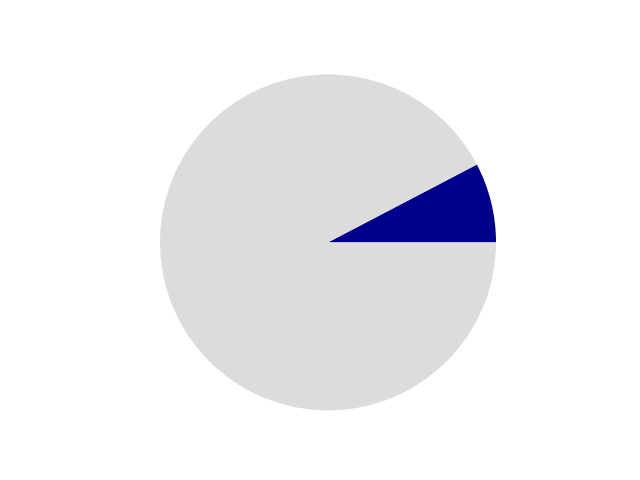
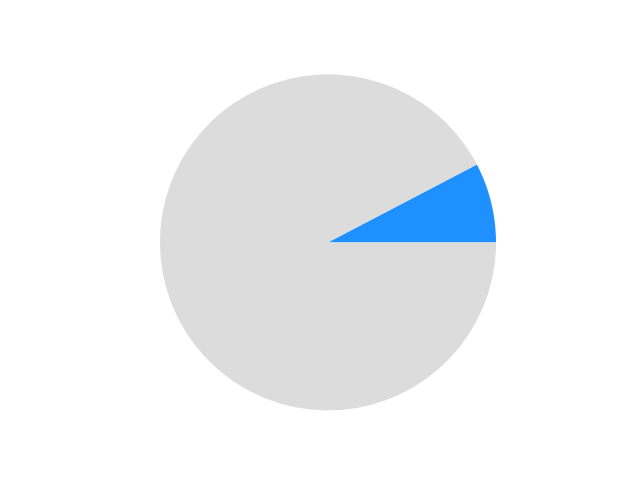
Changing colour to the piecharts.

Changed region(s): [[0.5312, 0.3438, 0.7812, 0.5312]]

diff --git a/Scripts/Processed/27_Plot_Diff_OBS_NWP_Climate_Piechart.py b/Scripts/Processed/27_Plot_Diff_OBS_NWP_Climate_Piechart.py
@@ -25,9 +25,9 @@ Domain_Coord_list = [ [90,-170,15,-50], [15, -100, -60, -30], [90, -30, 30, 60],
 Domain_Name_list = ["North_America", "South_America", "Europe_Mediterranean", "Africa", "Asia", "Oceania"]
 SystemNWP_list = ["Reanalysis/ERA5_EDA", "Reanalysis/ERA5", "Reforecasts/ECMWF_46r1", "Reanalysis/ERA5_ecPoint"]
 Git_Repo = "/ec/vol/ecpoint_dev/mofp/papers_2_write/Verif_ClimateNWP_4Points"
-DirIN_obs = "Data/Compute/12_Climate_OBS/08_AlignOBS_Combine_Years_RawSTVL/MinDays_Perc_75.0/24h_2000_2019"
+DirIN_obs = "Data/Compute/12_Climate_OBS/10_AlignOBS_CleanSTVL/Coeff_Grid2Point_500/MinDays_Perc_75.0/24h_2000_2019"
 DirIN_nwp = "Data/Compute/16_Climate_G/24h_2000_2019"
-DirOUT = "Data/Plot/27_Diff_OBS_NWP_Climate_Piechart/08_AlignOBS_Combine_Years_RawSTVL/MinDays_Perc_75.0/24h_2000_2019"
+DirOUT = "Data/Plot/27_Diff_OBS_NWP_Climate_Piechart/10_AlignOBS_CleanSTVL/Coeff_Grid2Point_500/MinDays_Perc_75.0/24h_2000_2019"
 ##############################################################################################################
 
 
@@ -71,7 +71,7 @@ for SystemNWP in SystemNWP_list:
                 nwp_below_obs = 100 - nwp_above_obs
                 print(" - % of NWP above OBS climate in " + Domain_Name + ": " + str(np.round(nwp_above_obs, decimals = 2)))
                 sizes = [nwp_above_obs, nwp_below_obs]
-                colors = ["#00008B", "gainsboro"]
+                colors = ["dodgerblue", "gainsboro"]
                 ax.pie(sizes, colors=colors, startangle=0)
                 plt.axis("equal")
 

diff --git a/Scripts/Processed/20_Plot_ECDF.py b/Scripts/Processed/20_Plot_ECDF.py
@@ -28,7 +28,7 @@ MinDays_Perc = 0.75
 SystemNWP_list = ["Reanalysis/ERA5_EDA", "Reanalysis/ERA5", "Reforecasts/ECMWF_46r1", "Reanalysis/ERA5_ecPoint"]
 SystemNWP_Colour_list = ["#CBE676", "#CDA590", "#6EB0C6", "#E25862"]
 Git_Repo = "/ec/vol/ecpoint_dev/mofp/papers_2_write/Verif_ClimateNWP_4Points"
-DirIN_OBS = "Data/Compute/10_AlignOBS_CleanSTVL/Coeff_Grid2Point_20"
+DirIN_OBS = "Data/Compute/10_AlignOBS_CleanSTVL/Coeff_Grid2Point_1000"
 DirIN_NWP = "Data/Compute/19_Merged_tp_NWP"
 DirOUT = "Data/Plot/20_ECDF"
 ###################################################################################################

diff --git a/Scripts/Processed/21_Compute_ECDF_diff.py b/Scripts/Processed/21_Compute_ECDF_diff.py
@@ -26,7 +26,7 @@ MinDays_Perc = 0.75
 Perc_list = np.arange(1, 100, 1)
 SystemNWP_list = ["Reanalysis/ERA5_ecPoint", "Reanalysis/ERA5_EDA", "Reanalysis/ERA5", "Reforecasts/ECMWF_46r1"]
 Git_Repo = "/ec/vol/ecpoint_dev/mofp/papers_2_write/Verif_ClimateNWP_4Points"
-DirIN_OBS = "Data/Compute/10_AlignOBS_CleanSTVL/Coeff_Grid2Point_20"
+DirIN_OBS = "Data/Compute/10_AlignOBS_CleanSTVL/Coeff_Grid2Point_1000"
 DirIN_NWP = "Data/Compute/19_Merged_tp_NWP"
 DirOUT = "Data/Compute/21_ECDF_diff"
 #########################################################################################################
